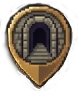
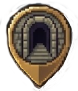
Lekkie poprawki graficzne

Changed region(s): [[0.0513, 0.2857, 0.3333, 0.8352], [0.3333, 0.8352, 0.4359, 0.9451]]

diff --git a/app/fight.tsx b/app/fight.tsx
@@ -211,7 +211,7 @@ export default function FightScreen() {
         showCancel={false}
       />
 
-      <View style={{ flexDirection: 'row', alignItems: 'center', justifyContent: 'center', marginBottom: 5}}>
+      <View style={{ flexDirection: 'row', alignItems: 'center', justifyContent: 'center', marginBottom: 5 }}>
         <Image source={require('@/assets/images/barracks.png')} style={{ width: 30, height: 30, marginRight: 10 }} resizeMode="contain" />
         <Text style={styles.title}>WALKA</Text>
         <Image source={require('@/assets/images/barracks.png')} style={{ width: 30, height: 30, marginLeft: 10 }} resizeMode="contain" />
@@ -223,12 +223,7 @@ export default function FightScreen() {
           <Image source={finalPlayerImageSource} style={styles.avatar} resizeMode="cover" />
           <Text style={styles.statName} numberOfLines={1}>{playerData.name}</Text>
           <View style={styles.hpContainer}>
-            <Image
-              source={require('@/assets/images/serce.png')}
-              style={{ width: 25, height: 25 }}
-              resizeMode="contain"
-            />
-            <Text style={styles.hpText}>{combatState?.playerHp ?? '?'} HP</Text>
+            <Text style={styles.hpText}>❤ {combatState?.playerHp ?? '?'} HP</Text>
           </View>
         </View>
 
@@ -238,12 +233,7 @@ export default function FightScreen() {
           <Image source={enemyImageSource} style={styles.avatar} resizeMode="cover" />
           <Text style={styles.statName} numberOfLines={1}>{combatState?.enemyName || 'Wróg'}</Text>
           <View style={styles.hpContainer}>
-            <Image
-              source={require('@/assets/images/serce.png')}
-              style={{ width: 25, height: 25 }}
-              resizeMode="contain"
-            />
-            <Text style={styles.hpText}>{combatState?.enemyHp ?? '?'} HP</Text>
+            <Text style={styles.hpText}>❤ {combatState?.enemyHp ?? '?'} HP</Text>
           </View>
         </View>
       </View>

diff --git a/styles/tabs/CharacterScreens.ts b/styles/tabs/CharacterScreens.ts
@@ -21,7 +21,7 @@ export const charStyles = StyleSheet.create({
 
   // Character Details
   detailsCard: { backgroundColor: '#1d2631', padding: 20, borderRadius: 8, borderWidth: 1, borderColor: '#a38450', alignItems: 'center' },
-  bigAvatar: { width: 100, height: 100, borderRadius: 50, marginBottom: 15, borderWidth: 2, borderColor: '#ebd59b' },
+  bigAvatar: { width: 100, height: 100, borderRadius: 10, marginBottom: 15, borderWidth: 2, borderColor: '#ebd59b' },
   charName: { color: '#ebd59b', fontFamily: 'determination', fontSize: 24, marginBottom: 5 },
   charLevel: { color: '#8a94a6', fontFamily: 'determination', fontSize: 16, marginBottom: 20 },
   deleteBtn: { backgroundColor: '#e74c3c', padding: 15, borderRadius: 8, alignItems: 'center', marginTop: 30, borderWidth: 1, borderColor: '#c0392b' },

diff --git a/app/(tabs)/dungeon.tsx b/app/(tabs)/dungeon.tsx
@@ -57,7 +57,14 @@ export default function DungeonScreen() {
 
         <View style={styles.monsterInfo}>
           <Text style={styles.monsterName}>{item.name}</Text>
-          <Text style={styles.monsterStats}>Lv. {item.level} | ❤ {item.hp} HP</Text>
+          <View style={{ flexDirection: 'row', alignItems: 'center' }}>
+            <Image
+              source={require('@/assets/images/serce.png')}
+              style={{ width: 20, height: 20, marginRight: 2 }}
+              resizeMode="contain"
+            />
+            <Text style={styles.monsterStats}>Lv. {item.level} | {item.hp} HP</Text>
+          </View>
         </View>
 
         <TouchableOpacity

diff --git a/styles/tabs/Dungeon.ts b/styles/tabs/Dungeon.ts
@@ -15,7 +15,7 @@ export const styles = StyleSheet.create({
     width: 60,
     height: 60,
     marginBottom: 10,
-    tintColor: '#e74c3c'
+    //tintColor: '#e74c3c'
   },
   title: {
     fontFamily: 'determination',
